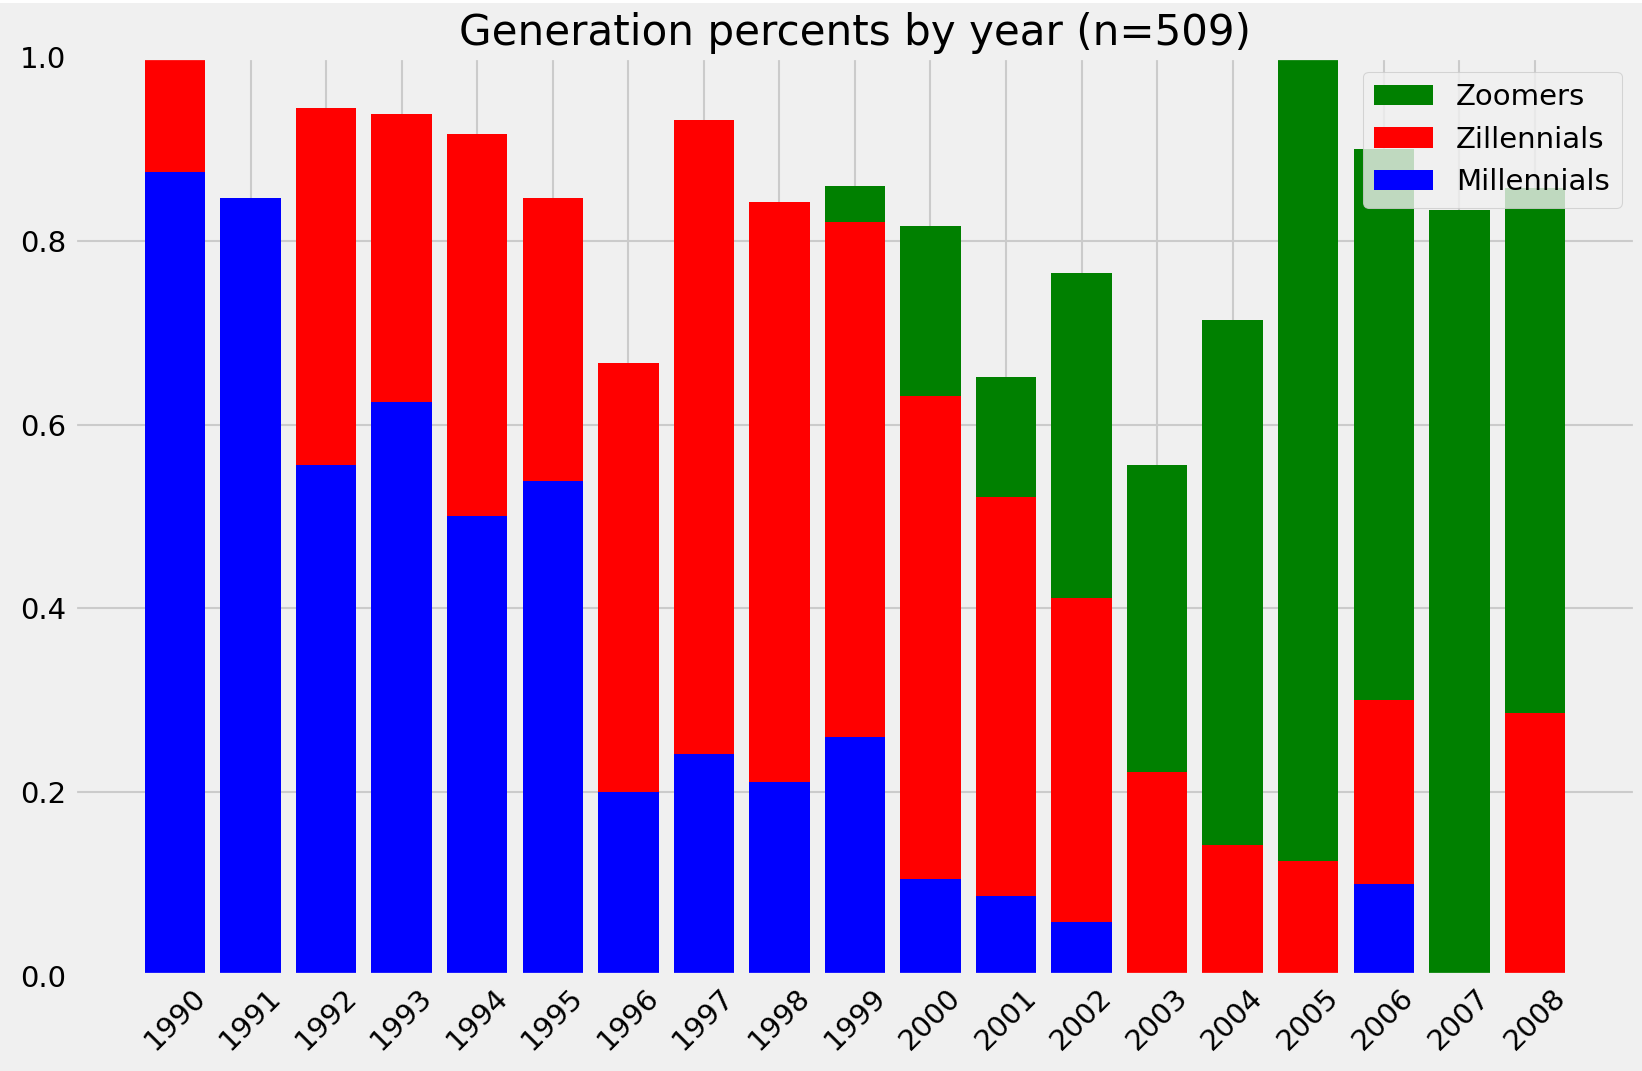
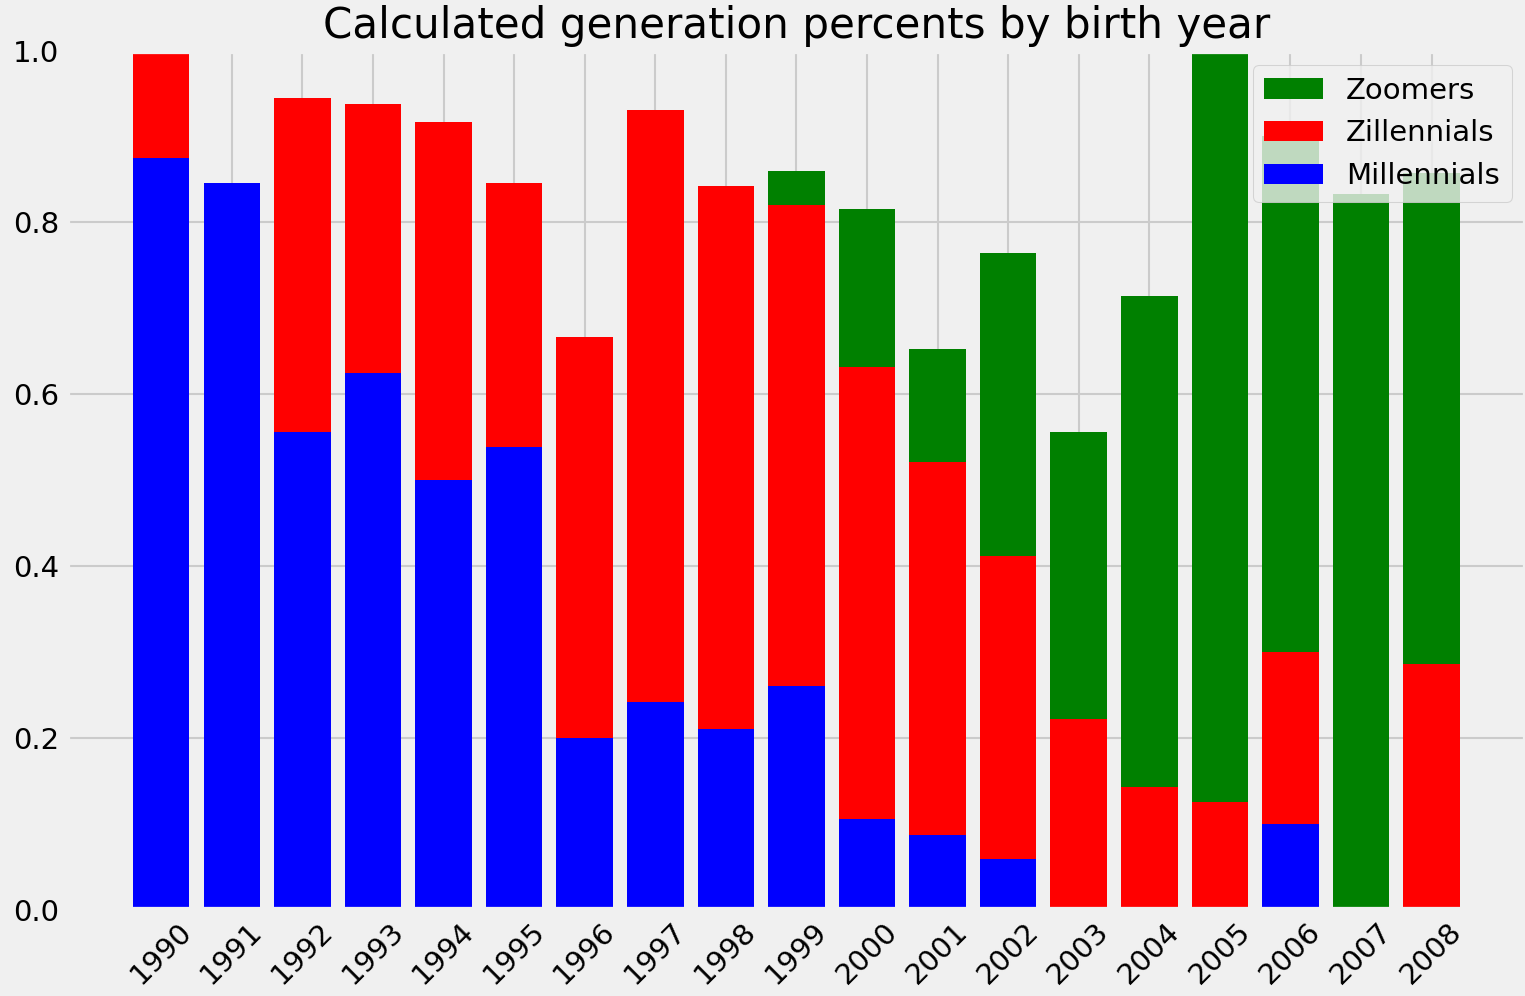
- revise calculated generations - add self identified generations - edit mistake in survey results

diff --git a/self_identified_generations.py b/self_identified_generations.py
@@ -1,0 +1,57 @@
+import matplotlib.pyplot as plt
+import numpy as np
+import pandas as pd
+
+data = pd.read_csv('results.csv')
+
+millennials_by_year = {1990: 0, 1991: 0, 1992: 0, 1993: 0, 1994: 0, 1995: 0, 1996: 0, 1997: 0, 1998: 0, 1999: 0,
+                       2000: 0, 2001: 0, 2002: 0, 2003: 0, 2004: 0, 2005: 0, 2006: 0, 2007: 0, 2008: 0}
+
+zoomers_by_year = {1990: 0, 1991: 0, 1992: 0, 1993: 0, 1994: 0, 1995: 0, 1996: 0, 1997: 0, 1998: 0, 1999: 0, 2000: 0,
+                   2001: 0, 2002: 0, 2003: 0, 2004: 0, 2005: 0, 2006: 0, 2007: 0, 2008: 0}
+
+other_by_year = {1990: 0, 1991: 0, 1992: 0, 1993: 0, 1994: 0, 1995: 0, 1996: 0, 1997: 0, 1998: 0, 1999: 0, 2000: 0,
+                 2001: 0, 2002: 0, 2003: 0, 2004: 0, 2005: 0, 2006: 0, 2007: 0, 2008: 0}
+
+total_by_year = {1990: 0, 1991: 0, 1992: 0, 1993: 0, 1994: 0, 1995: 0, 1996: 0, 1997: 0, 1998: 0, 1999: 0, 2000: 0,
+                 2001: 0, 2002: 0, 2003: 0, 2004: 0, 2005: 0, 2006: 0, 2007: 0, 2008: 0}
+
+for i, each_response in data.iterrows():
+    if each_response.birth_year in total_by_year:
+        total_by_year[each_response.birth_year] += 1
+        if each_response.generation == 'Millennial':
+            millennials_by_year[each_response.birth_year] += 1
+        elif each_response.generation == 'Gen Z':
+            zoomers_by_year[each_response.birth_year] += 1
+        else:
+            other_by_year[each_response.birth_year] += 1
+
+millennial_percents = []
+zoomer_percents = []
+other_percents = []
+for each_item in millennials_by_year:
+    millennial_percents.append(float(millennials_by_year[each_item]) / float(total_by_year[each_item]))
+for each_item in zoomers_by_year:
+    zoomer_percents.append(float(zoomers_by_year[each_item]) / float(total_by_year[each_item]))
+for each_item in other_by_year:
+    other_percents.append(float(other_by_year[each_item]) / float(total_by_year[each_item]))
+
+millennial_percents = np.array(millennial_percents)
+zoomer_percents = np.array(zoomer_percents)
+other_percents = np.array(other_percents)
+
+plt.style.use('fivethirtyeight')
+years = range(1990, 2009, 1)
+N = 19
+ind = np.arange(N)
+fig = plt.figure()
+ax = fig.add_axes([0.1, 0.1, 0.85, 0.85])
+ax.set_xticks(years)
+plt.xticks(rotation=45)
+plt.bar(millennials_by_year.keys(), millennial_percents, color='blue', label='Millennials')
+plt.bar(other_by_year.keys(), other_percents, bottom=millennial_percents, color='orange', label='Other')
+plt.bar(zoomers_by_year.keys(), zoomer_percents, bottom=millennial_percents+other_percents, color='green',
+        label='Gen Z')
+plt.legend(loc='best')
+plt.title('Self-identified generation percents by birth year')
+plt.show()

diff --git a/calculate_generations.py b/calculate_generations.py
@@ -67,5 +67,5 @@ plt.bar(millennials_by_year.keys(), millennial_percents, color='blue', label='Mi
 # plt.bar(weirdos_by_year.keys(), weirdo_percents, bottom=millennial_percents+zillennial_percents+zoomer_percents,
 #         color='black', label='Weirdos')
 plt.legend(loc='best')
-plt.title('Generation percents by year (n=509)')
+plt.title('Calculated generation percents by birth year')
 plt.show()
